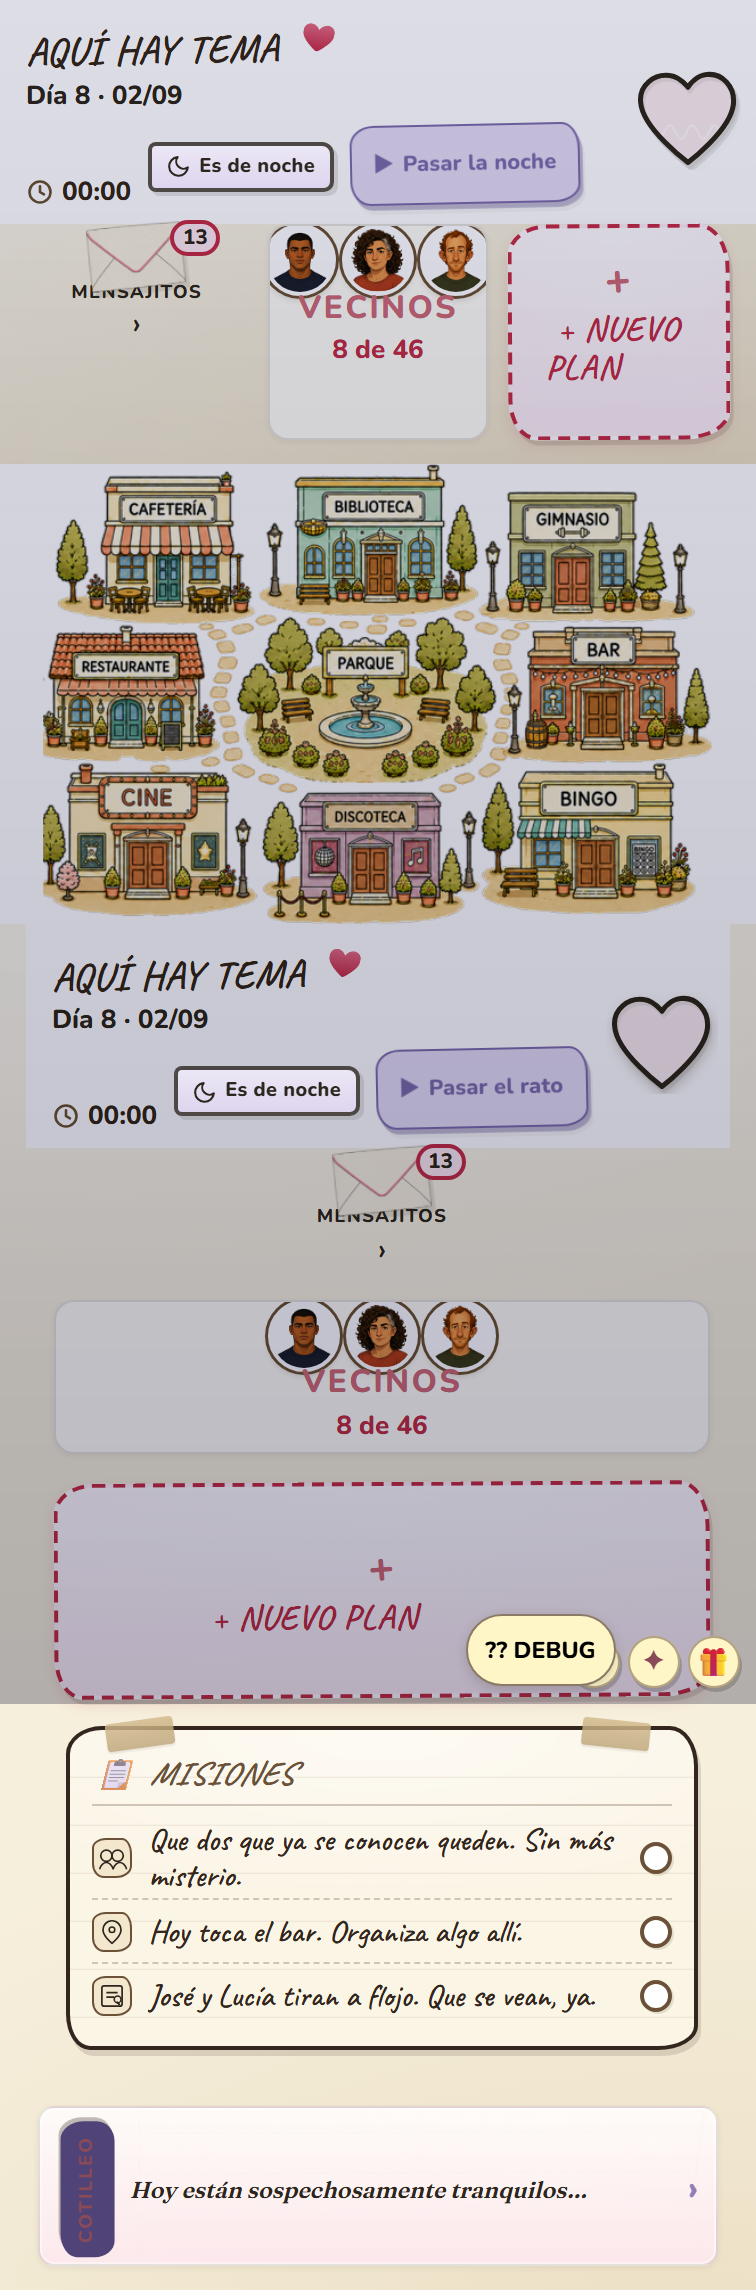
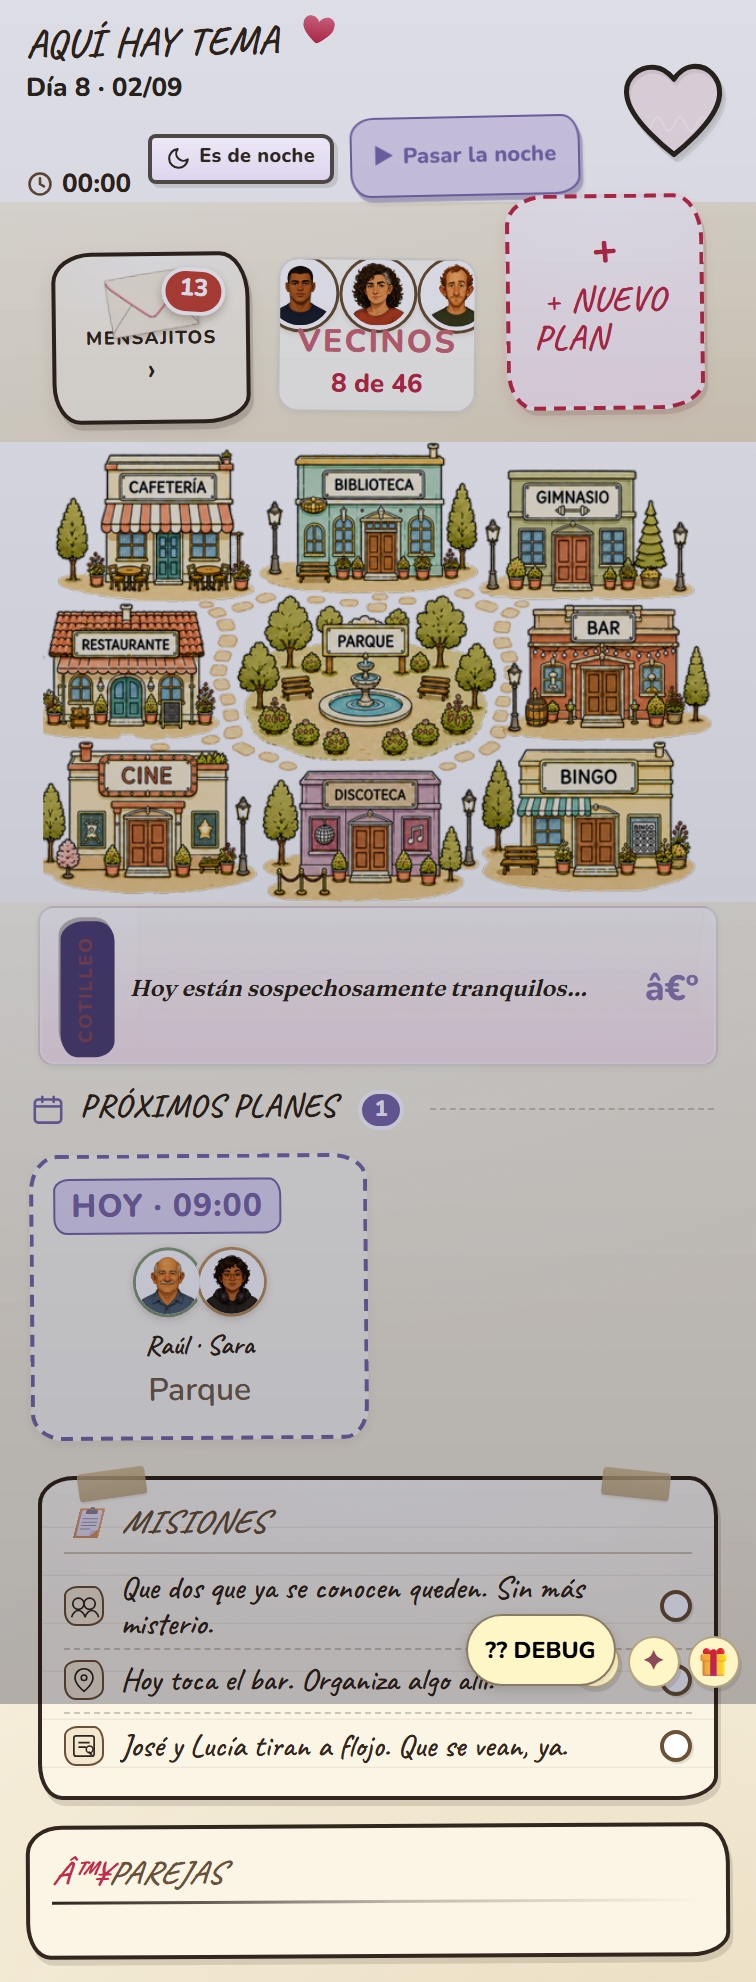
fix(inicio-movil): recuperar tiles aprobados y corregir DOM dual-view
Repara el anidamiento roto de inicio-desktop dentro del feed, porta selectores CSS del piloto c5f73d3 a inicio-mobile-tiles y refuerza ocultacion desktop en movil para una sola cabecera.

diff --git a/assets/css/design-system/screens/inicio-mobile.css b/assets/css/design-system/screens/inicio-mobile.css
@@ -245,14 +245,14 @@
 
   /* ---------- 3. Tres piezas de la misma familia (marco tipo Nuevo Plan) ---------- */
 
-  .inicio-mobile .inicio-layout .inicio-mobile .inicio-chrome-left.zona-actividad {
+  .inicio-mobile .inicio-mobile-tiles {
     gap: 14px;
     padding: 0 13px;
   }
 
   /* Familia de marco comÃƒÂºn: borde tinta 2px + costura interior + radios artesanales */
-  .inicio-mobile .zona-actividad .obj-buzon,
-  .inicio-mobile .inicio-chrome-left .celestine-nota.obj-vecinos-resumen {
+  .inicio-mobile .inicio-mobile-tiles .obj-buzon,
+  .inicio-mobile .inicio-mobile-tiles .celestine-nota.obj-vecinos-resumen {
     margin: 0;
     min-height: 86px;
     padding: 10px 8px 9px;
@@ -265,62 +265,62 @@
   }
 
   /* tres piezas desiguales â€” alturas y giros artesanales, sin costura interior */
-  .inicio-mobile .zona-actividad .obj-buzon::before,
-  .inicio-mobile .inicio-chrome-left .celestine-nota.obj-vecinos-resumen::before {
+  .inicio-mobile .inicio-mobile-tiles .obj-buzon::before,
+  .inicio-mobile .inicio-mobile-tiles .celestine-nota.obj-vecinos-resumen::before {
     content: none;
     display: none;
   }
 
-  .inicio-mobile .inicio-layout .inicio-mobile .inicio-chrome-left.zona-actividad {
+  .inicio-mobile .inicio-mobile-tiles {
     align-items: end;
   }
 
-  .inicio-mobile .zona-actividad .shell-grupo-buzon {
+  .inicio-mobile .inicio-mobile-tiles .shell-grupo-buzon {
     align-self: end;
     transform: translateY(3px) rotate(-0.7deg);
   }
 
-  .inicio-mobile .zona-actividad .shell-grupo-resumen {
+  .inicio-mobile .inicio-mobile-tiles .shell-grupo-resumen {
     align-self: end;
     transform: translateY(-2px) rotate(0.55deg);
   }
 
-  .inicio-mobile .zona-actividad .shell-grupo-planes {
+  .inicio-mobile .inicio-mobile-tiles .shell-grupo-planes {
     align-self: end;
     transform: translateY(-4px) rotate(-0.35deg);
   }
 
-  .inicio-mobile .zona-actividad .obj-buzon {
+  .inicio-mobile .inicio-mobile-tiles .obj-buzon {
     border-radius: 20px 15px 23px 14px / 15px 23px 14px 20px;
   }
 
   /* el wrap estira a la altura comun de la familia */
-  .inicio-mobile .zona-actividad .shell-grupo-buzon .mensajitos-wrap {
+  .inicio-mobile .inicio-mobile-tiles .shell-grupo-buzon .mensajitos-wrap {
     min-height: 86px;
     display: flex;
   }
 
-  .inicio-mobile .zona-actividad .mensajitos-wrap .obj-buzon {
+  .inicio-mobile .inicio-mobile-tiles .mensajitos-wrap .obj-buzon {
     min-height: 86px;
     margin: 0;
     flex: 1;
     width: 100%;
   }
 
-  .inicio-mobile .inicio-chrome-left .celestine-nota.obj-vecinos-resumen {
+  .inicio-mobile .inicio-mobile-tiles .celestine-nota.obj-vecinos-resumen {
     min-height: 98px;
     border-radius: 15px 21px 13px 21px / 21px 13px 21px 15px;
   }
 
-  .inicio-mobile .inicio-chrome-left .obj-buzon:active,
-  .inicio-mobile .inicio-chrome-left .celestine-nota.obj-vecinos-resumen:active,
-  .inicio-mobile .inicio-chrome-left .obj-nuevo-plan:active {
+  .inicio-mobile .inicio-mobile-tiles .obj-buzon:active,
+  .inicio-mobile .inicio-mobile-tiles .celestine-nota.obj-vecinos-resumen:active,
+  .inicio-mobile .inicio-mobile-tiles .obj-nuevo-plan:active {
     transform: scale(.97);
   }
 
   /* Slot de icono transparente (el papel lo pone la tarjeta) */
-  .inicio-mobile .inicio-chrome-left .inicio-mobile .inicio-chrome-left-tile-ico,
-  .inicio-mobile .inicio-chrome-left .obj-buzon-ico-wrap {
+  .inicio-mobile .inicio-mobile-tiles .inicio-chrome-left-tile-ico,
+  .inicio-mobile .inicio-mobile-tiles .obj-buzon-ico-wrap {
     background: none;
     border: none;
     box-shadow: none;
@@ -330,14 +330,14 @@
   }
 
   /* MENSAJITOS: sobre grande y protagonista, ligeramente girado */
-  .inicio-mobile .zona-actividad .obj-buzon-img {
+  .inicio-mobile .inicio-mobile-tiles .obj-buzon-img {
     width: 46px;
     margin: 0;
     transform: rotate(-5deg);
     filter: drop-shadow(1px 2px 1px rgba(70, 50, 30, .18));
   }
 
-  .inicio-mobile .zona-actividad .obj-buzon-badge {
+  .inicio-mobile .inicio-mobile-tiles .obj-buzon-badge {
     position: absolute;
     top: 6px;
     right: 10px;
@@ -355,8 +355,8 @@
     transform: rotate(4deg);
   }
 
-  .inicio-mobile .inicio-chrome-left-tile-label,
-  .inicio-mobile .zona-actividad .obj-buzon-txt,
+  .inicio-mobile .inicio-mobile-tiles-tile-label,
+  .inicio-mobile .inicio-mobile-tiles .obj-buzon-txt,
   .inicio-mobile .celestine-nota .obj-vecinos-tit {
     font-family: var(--ds-font-hand);
     font-weight: 700;
@@ -408,7 +408,7 @@
   }
 
   /* + NUEVO PLAN: pieza ROSA protagonista (rosa de Parejas/corazones) */
-  .inicio-mobile .inicio-chrome-left .shell-grupo-planes .obj-proximo {
+  .inicio-mobile .inicio-mobile-tiles .shell-grupo-planes .obj-proximo {
     background: none;
     border: none;
     box-shadow: none;
@@ -424,7 +424,7 @@
   }
 
   /* + PLAN: borde rosa discontinuo (ref piloto v3.1) */
-  .inicio-mobile .inicio-chrome-left .obj-nuevo-plan.obj-proximo-cta {
+  .inicio-mobile .inicio-mobile-tiles .obj-nuevo-plan.obj-proximo-cta {
     min-height: 108px;
     padding: 10px 8px 10px;
     background:
@@ -444,13 +444,13 @@
     transform: rotate(-0.35deg);
   }
 
-  .inicio-mobile .inicio-chrome-left .obj-nuevo-plan.obj-proximo-cta::before,
-  .inicio-mobile .inicio-chrome-left .obj-nuevo-plan.obj-proximo-cta::after {
+  .inicio-mobile .inicio-mobile-tiles .obj-nuevo-plan.obj-proximo-cta::before,
+  .inicio-mobile .inicio-mobile-tiles .obj-nuevo-plan.obj-proximo-cta::after {
     content: none;
     display: none;
   }
 
-  .inicio-mobile .inicio-chrome-left .obj-nuevo-plan-ico {
+  .inicio-mobile .inicio-mobile-tiles .obj-nuevo-plan-ico {
     font-size: 2.35rem;
     line-height: .85;
     font-family: var(--ds-font-hand);
@@ -459,7 +459,7 @@
     text-shadow: none;
   }
 
-  .inicio-mobile .inicio-chrome-left .obj-nuevo-plan-txt {
+  .inicio-mobile .inicio-mobile-tiles .obj-nuevo-plan-txt {
     color: var(--ds-pink-deep);
     text-shadow: none;
     padding: 0 4px;
@@ -467,7 +467,7 @@
 
   /* ---------- 4. Mapa protagonista ---------- */
 
-  .inicio-mobile .inicio-map-host {
+  .inicio-stage > .inicio-map-host {
     padding: 0 13px;
   }
 
@@ -1473,3 +1473,79 @@
   display: block;
 }
 
+
+/* INICIO-MOBILE-OVERRIDE — gana a play-v3-responsive legacy (ref c5f73d3) */
+@media (max-width: 768px) {
+  .play-v3 .inicio-mobile:not(.inicio-mobile-feed) .game-top {
+    display: grid !important;
+    grid-template-columns: auto 1fr auto auto !important;
+    grid-template-areas:
+      "brand brand guia vida"
+      "meta  meta  guia  vida"
+      "hora  rato  rato  vida" !important;
+    align-items: start !important;
+    column-gap: 8px !important;
+    row-gap: 5px !important;
+    padding: 10px 13px 0 !important;
+  }
+
+  .play-v3 .inicio-mobile:not(.inicio-mobile-feed) .brand-col,
+  .play-v3 .inicio-mobile:not(.inicio-mobile-feed) .top-center,
+  .play-v3 .inicio-mobile:not(.inicio-mobile-feed) .top-meta-line {
+    display: contents !important;
+  }
+
+  .play-v3 .inicio-mobile:not(.inicio-mobile-feed) .top-meta-prim {
+    grid-area: meta !important;
+    display: inline-flex !important;
+    font-weight: 800 !important;
+    margin: 0 !important;
+  }
+
+  .play-v3 .inicio-mobile:not(.inicio-mobile-feed) .top-meta-hora {
+    grid-area: hora !important;
+    display: inline-flex !important;
+    align-items: center !important;
+    gap: 4px !important;
+    margin: 0 !important;
+  }
+
+  .play-v3 .inicio-mobile:not(.inicio-mobile-feed) .top-reloj {
+    grid-area: rato !important;
+    display: flex !important;
+    align-items: center !important;
+    gap: 8px !important;
+  }
+
+  .play-v3 .inicio-mobile .inicio-mobile-tiles .shell-grupo-buzon,
+  .play-v3 .inicio-mobile .inicio-mobile-tiles .shell-grupo-resumen,
+  .play-v3 .inicio-mobile .inicio-mobile-tiles .shell-grupo-planes {
+    height: auto !important;
+    min-height: 0 !important;
+    max-height: none !important;
+    aspect-ratio: auto !important;
+    display: block !important;
+    overflow: visible !important;
+  }
+
+  .play-v3 .inicio-mobile .inicio-mobile-tiles .obj-nuevo-plan.obj-proximo-cta {
+    display: flex !important;
+    visibility: visible !important;
+    opacity: 1 !important;
+    width: 100% !important;
+    min-height: 108px !important;
+    padding: 10px 8px !important;
+    border: 2.5px dashed var(--ds-pink-deep, #c85b78) !important;
+    background:
+      radial-gradient(130% 100% at 50% 0%, rgba(255, 255, 255, .65), rgba(255, 255, 255, 0) 64%),
+      linear-gradient(180deg, #fff8fb 0%, #fceef4 100%) !important;
+    box-shadow: 1.5px 2.5px 0 rgba(51, 38, 30, .12), 0 3px 7px rgba(196, 43, 74, .12) !important;
+    transform: rotate(-0.35deg) !important;
+  }
+
+  .play-v3 .inicio-mobile .inicio-mobile-tiles .obj-nuevo-plan-ico,
+  .play-v3 .inicio-mobile .inicio-mobile-tiles .obj-nuevo-plan-txt {
+    color: var(--ds-pink-deep, #c85b78) !important;
+    text-shadow: none !important;
+  }
+}

diff --git a/dev/_capture_inicio_architecture.js b/dev/_capture_inicio_architecture.js
@@ -73,7 +73,7 @@ function evalInicio(page) {
       vecinosPob: text('[data-vecinos-poblacion]'),
       cotilleoLen: allText('[data-cotilleo-teaser]').length,
       misionesItems: document.querySelectorAll('[data-misiones-strip] > *').length,
-      parejasItems: document.querySelectorAll('[data-parejas-strip] .obj-pareja-piece, [data-parejas-strip] > *').length,
+      parejasItems: document.querySelectorAll('[data-parejas-strip] .obj-pareja-piece').length,
       encCards: document.querySelectorAll('[data-encursos-track] .enc-mov-card').length,
       proxCards: document.querySelectorAll('[data-proxplanes-track] .pp-mov-card, [data-proxplanes-track] .prox-card').length,
       headerMeta: allText('[data-dia-meta]'),

diff --git a/assets/css/design-system/screens/inicio-views.css b/assets/css/design-system/screens/inicio-views.css
@@ -1,6 +1,9 @@
 /* INICIO-VIEWS — visibilidad por breakpoint; mapa compartido fuera de hidden */
 @media (max-width: 768px) {
-  .inicio-stage > .inicio-desktop {
+  .inicio-stage .inicio-desktop .game-top {
+    display: none !important;
+  }
+  .inicio-stage .inicio-desktop {
     display: none !important;
   }
   .inicio-stage > .inicio-mobile {
@@ -15,7 +18,7 @@
   .inicio-stage > .inicio-mobile {
     display: none !important;
   }
-  .inicio-stage > .inicio-desktop {
+  .inicio-stage .inicio-desktop {
     display: block;
   }
 }

diff --git a/play.php b/play.php
@@ -864,19 +864,6 @@ if (is_file($ahtBusterFile)) {
   </div>
       </div>
 
-<section class="inicio-mobile inicio-mobile-feed" data-inicio-view="mobile" aria-label="Inicio m&oacute;vil feed">
-        <div class="inicio-chrome-right inicio-mobile-feed-inner">
-            <section class="shell-grupo shell-grupo-cotilleo-par">
-          <button type="button" class="obj-cotilleo obj-cotilleo-par" data-open="diario" aria-label="Abrir cotilleo del pueblo">
-            <span class="obj-cotilleo-tit">Cotilleo</span>
-            <span class="obj-cotilleo-cuerpo">
-              <span class="obj-cotilleo-txt" data-cotilleo-teaser>Hoy est&aacute;n sospechosamente tranquilos&hellip;</span>
-              <span class="obj-cotilleo-badge" data-cotilleo-badge hidden></span>
-            </span>
-            <span class="obj-cotilleo-flecha" aria-hidden="true">&#8250;</span>
-          </button>
-        </section>
-
 <section class="inicio-desktop" data-inicio-view="desktop" aria-label="Inicio escritorio">
         <header class="game-top">
       <div class="brand-col">
@@ -1035,9 +1022,60 @@ if (is_file($ahtBusterFile)) {
           </span>
         </div>
       </aside>
-      
 
-      
+      <section class="inicio-mobile inicio-mobile-feed" data-inicio-view="mobile" aria-label="Inicio m&oacute;vil feed">
+        <div class="inicio-chrome-right inicio-mobile-feed-inner">
+            <section class="shell-grupo shell-grupo-cotilleo-par">
+          <button type="button" class="obj-cotilleo obj-cotilleo-par" data-open="diario" aria-label="Abrir cotilleo del pueblo">
+            <span class="obj-cotilleo-tit">Cotilleo</span>
+            <span class="obj-cotilleo-cuerpo">
+              <span class="obj-cotilleo-txt" data-cotilleo-teaser>Hoy est&aacute;n sospechosamente tranquilos&hellip;</span>
+              <span class="obj-cotilleo-badge" data-cotilleo-badge hidden></span>
+            </span>
+            <span class="obj-cotilleo-flecha" aria-hidden="true">â€º</span>
+          </button>
+        </section>
+            <section class="shell-grupo encursos-movil" data-encursos-block aria-label="Planes en curso ahora">
+          <header class="enc-mov-cab plan-seccion-cab">
+            <svg class="plan-seccion-ico enc-mov-ico" viewBox="0 0 24 24" aria-hidden="true"><path d="M4 12a8 8 0 0 1 13.3-6" fill="none" stroke="currentColor" stroke-width="2" stroke-linecap="round"/><path d="M20 12a8 8 0 0 1-13.3 6" fill="none" stroke="currentColor" stroke-width="2" stroke-linecap="round"/><path d="M16.5 3.5V8h-4.5M7.5 20.5V16H12" fill="none" stroke="currentColor" stroke-width="2" stroke-linecap="round" stroke-linejoin="round"/></svg>
+            <h3 class="enc-mov-tit">PLAN EN CURSO<span class="plan-seccion-cnt" data-encursos-count hidden aria-hidden="true"></span></h3>
+            <span class="plan-seccion-rule" aria-hidden="true"></span>
+          </header>
+          <div class="enc-mov-shell" data-encursos-shell hidden aria-hidden="true">
+            <button type="button" class="enc-mov-nav-btn enc-mov-nav-prev" data-enc-mov-prev aria-label="Plan anterior" hidden>
+              <svg viewBox="0 0 24 24" aria-hidden="true" focusable="false"><path d="M14 7l-5 5 5 5" fill="none" stroke="currentColor" stroke-width="2" stroke-linecap="round" stroke-linejoin="round"/></svg>
+            </button>
+            <div class="enc-mov-track" data-encursos-track></div>
+            <button type="button" class="enc-mov-nav-btn enc-mov-nav-next" data-enc-mov-next aria-label="Plan siguiente" hidden>
+              <svg viewBox="0 0 24 24" aria-hidden="true" focusable="false"><path d="M10 7l5 5-5 5" fill="none" stroke="currentColor" stroke-width="2" stroke-linecap="round" stroke-linejoin="round"/></svg>
+            </button>
+          </div>
+        </section>
+            <section class="shell-grupo proxplanes-movil" data-proxplanes-block aria-label="Pr&oacute;ximos planes programados">
+          <header class="pp-mov-cab plan-seccion-cab">
+            <svg class="plan-seccion-ico pp-mov-ico" viewBox="0 0 24 24" aria-hidden="true"><rect x="3.2" y="5" width="17.6" height="15.4" rx="2.4" fill="none" stroke="currentColor" stroke-width="1.7"/><path d="M3.4 9.6h17.2" stroke="currentColor" stroke-width="1.7"/><path d="M8.2 3.2v3.4M15.8 3.2v3.4" stroke="currentColor" stroke-width="1.7" stroke-linecap="round"/></svg>
+            <h3 class="pp-mov-tit">PR&Oacute;XIMOS PLANES<span class="plan-seccion-cnt" data-proxplanes-count hidden aria-hidden="true"></span></h3>
+            <span class="plan-seccion-rule" aria-hidden="true"></span>
+          </header>
+          <div class="pp-mov-track" data-proxplanes-track></div>
+        </section>
+            <section class="shell-grupo shell-grupo-misiones-par" data-inicio-misiones>
+          <div class="obj-misiones-papel" aria-label="Misiones de hoy">
+            <span class="mision-tape mision-tape-tl" aria-hidden="true"></span>
+            <span class="mision-tape mision-tape-tr" aria-hidden="true"></span>
+            <span class="mision-tape mision-tape-bl" aria-hidden="true"></span>
+            <span class="mision-tape mision-tape-br" aria-hidden="true"></span>
+            <span class="obj-misiones-papel-tit">MISIONES</span>
+            <div class="obj-misiones-strip" data-misiones-strip></div>
+          </div>
+        </section>
+            <section class="shell-grupo shell-grupo-parejas" data-inicio-parejas>
+          <span class="zona-tit zona-tit-parejas">PAREJAS</span>
+          <div class="obj-parejas-list" data-parejas-strip></div>
+        </section>
+        </div>
+      </section>
+
     </div>
   </div>  <script src="assets/js/lab-audit.js?v=<?= htmlspecialchars($ahtUi, ENT_QUOTES, 'UTF-8') ?>"></script>
   <script src="assets/js/play-v3-audio.js?v=<?= htmlspecialchars($ahtUi, ENT_QUOTES, 'UTF-8') ?>"></script>
